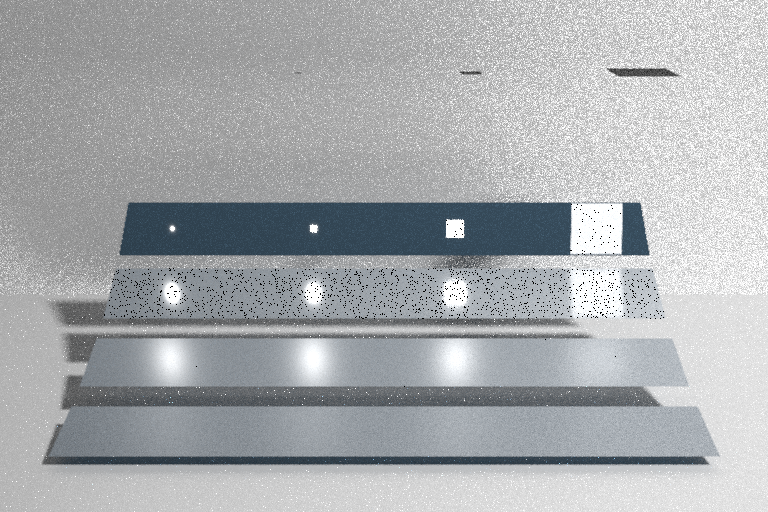
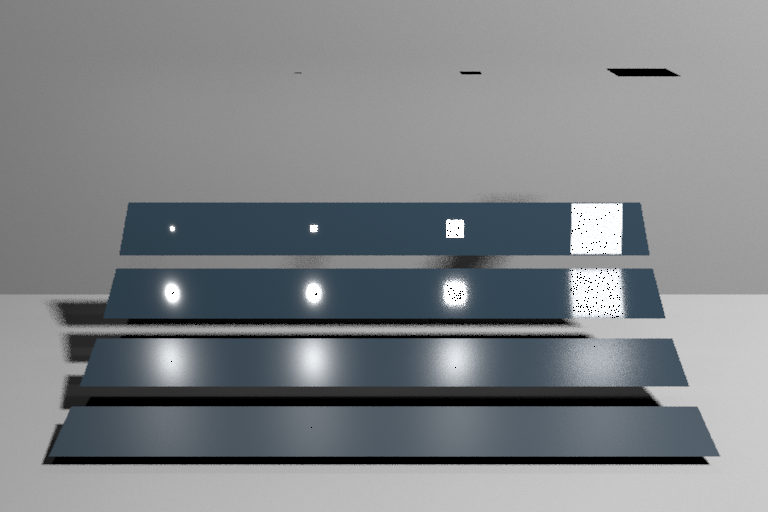
Just a few dark speckles but very almost correct MIS

diff --git a/src/raytracer.cpp b/src/raytracer.cpp
@@ -1001,9 +1001,11 @@ glm::vec3 PathTracerFindColor(UniformGrid* grid, const Ray& ray, Scene* scene, C
 
 
 
-	if (depth > maxDepth)
+	if (depth >= maxDepth)
 	{
-		//return accumCol;
+		if (intersection.isLight)
+			return intersection.hitObjectEmission;
+
 		return glm::vec3(0.0f);
 	}
 
@@ -1109,41 +1111,31 @@ glm::vec3 PathTracerFindColor(UniformGrid* grid, const Ray& ray, Scene* scene, C
 
 
 
+				float cosSurface = std::max(glm::dot(intersection.hitObjectNormal, dir), 0.0f);
+				float cosLight = std::max(glm::dot(lightNormal, dir), 0.0f);
+				float dist2 = distanceToLight * distanceToLight;
+
+				float G = cosSurface * cosLight / dist2;
+
+				float pdfNEE_solidAngle = dist2 / (lightArea * cosLight + 1e-6f);
+
+				float weight = 1.0f;
+
 				if (useNEE == "mis")
 				{
-					float cosLight = std::max(glm::dot(lightNormal, dir), 0.0f);
-					float dist2 = distanceToLight * distanceToLight;
-
-
-					if (lightSample.didHit)
-					{
-						pdfNEE = dist2 / (lightArea * cosLight + 1e-6f);					
-						//	pdfNEE /= lights.size();
-					}
-					else
-					{
-						pdfNEE = 0.0f;
-					}
-
-					float cosSurface = std::max(glm::dot(intersection.hitObjectNormal, dir), 0.0f);
-
-					float weight =
-						(pdfNEE * pdfNEE) /
-						(pdfNEE * pdfNEE + pdfBRDF * pdfBRDF + 1e-6f);
-
-					perLight += brdfNEE * cosSurface * weight / (pdfNEE + 1e-6f);
+					weight =
+						(pdfNEE_solidAngle * pdfNEE_solidAngle) /
+						(pdfNEE_solidAngle * pdfNEE_solidAngle + pdfBRDF * pdfBRDF + 1e-6f);
 				}
-				else
-				{
-					perLight += brdfNEE * G;
-				}
+
+				perLight += brdfNEE * G * weight;
 
 			}
 
 
 		//	pdfNEE = 1.0f / lightArea;
 
-			directLight += perLight * light->intensity / (float)samples;
+			directLight += perLight * light->intensity * lightArea / (float)samples;
 		}
 	}
 	//accumCol += directLight;
